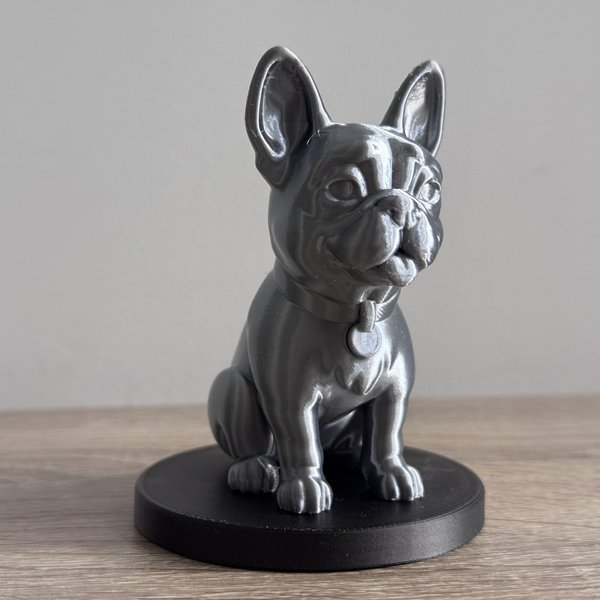
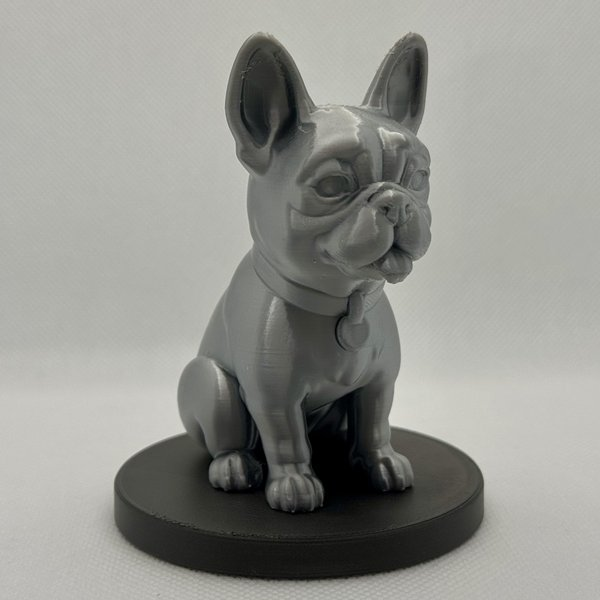
New lightbox photos, Mango in Free critters

diff --git a/index.html b/index.html
@@ -99,11 +99,6 @@
   h2.coll { color: var(--graphite); }
 
   .features { display: grid; grid-template-columns: 1fr 1fr; gap: 10px; }
-  .feature:only-child { grid-column: 1 / -1; display: flex; align-items: stretch; }
-  .feature:only-child img { width: 42%; border-bottom: 0; border-right: 2.5px solid var(--graphite); }
-  .feature:only-child .txt { align-self: center; padding: 12px 14px; }
-  .feature:only-child b { font-size: 17px; }
-  .feature:only-child small { font-size: 13px; }
   .feature {
     background: var(--card);
     border: 2.5px solid var(--graphite);
@@ -216,10 +211,10 @@
     </div>
   </section>
 
-  <h2>Solo critters <span>one of a kind</span></h2>
+  <h2>Free critters <span>on the house</span></h2>
   <section class="features">
     <a class="feature" href="https://makerworld.com/en/models/3511548" target="_blank" rel="noopener">
-      <img src="mango.jpg" alt="Mango the orangutan, 3D printable figurine" width="480" height="480" loading="lazy">
+      <img src="mango.jpg" alt="Mango the orangutan, 3D printed figurine" width="600" height="600" loading="lazy">
       <div class="txt">
         <b>Mango</b>
         <small>Nothing surprises him.</small><br>
